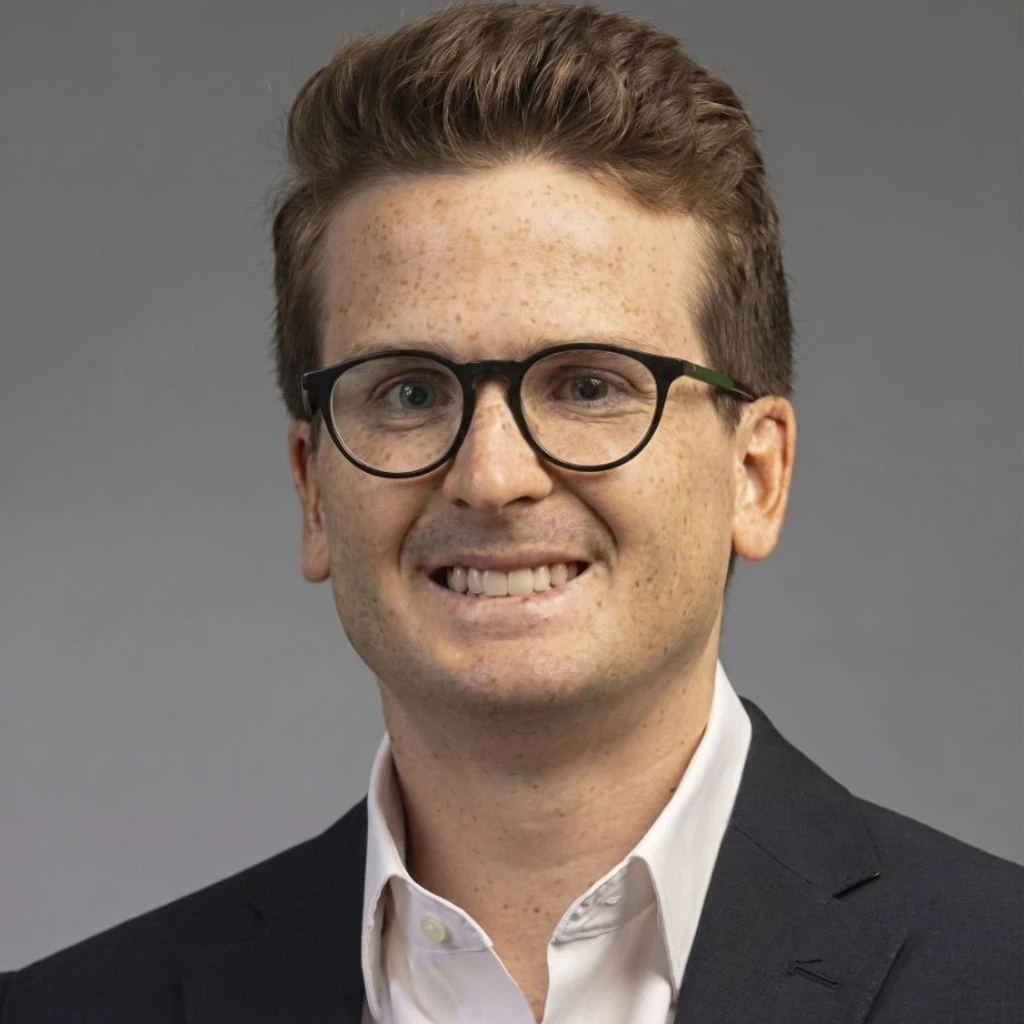
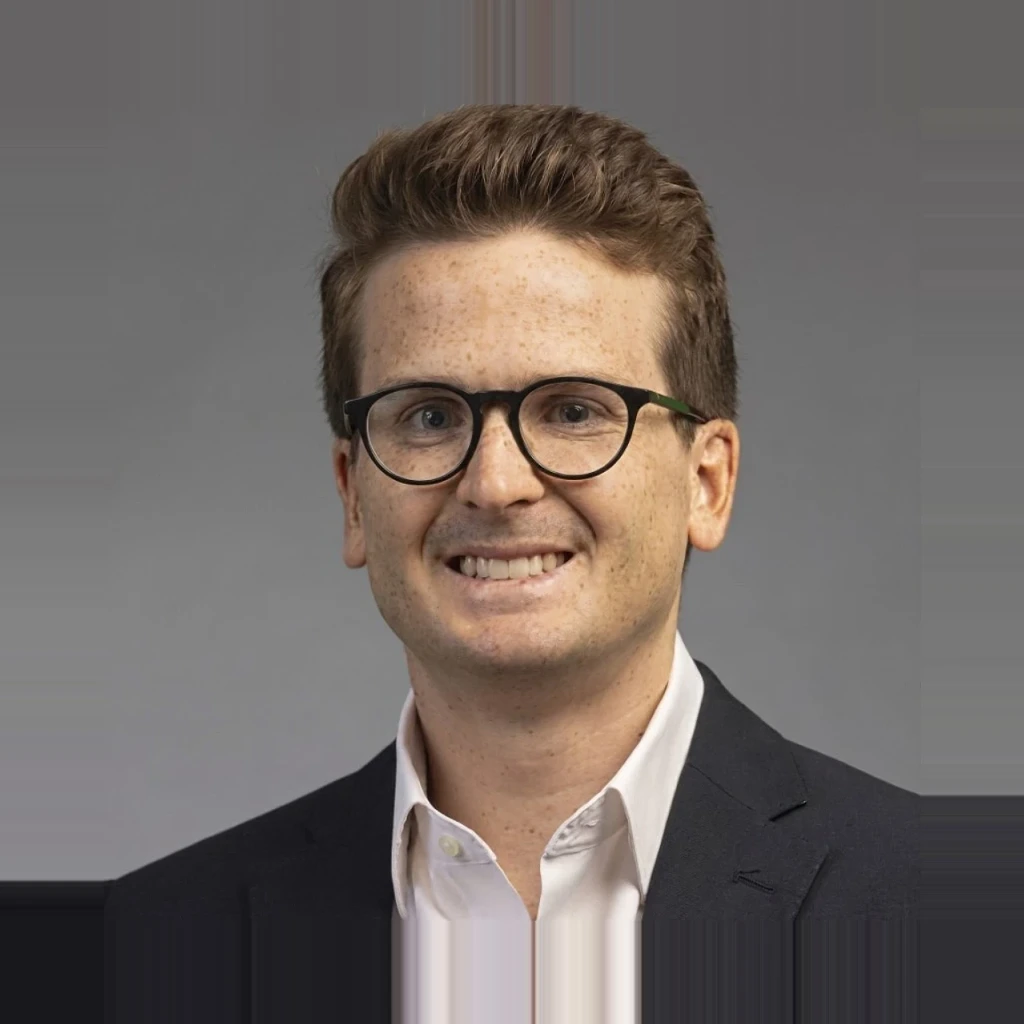
fix: show staff photos in full color; zoom out Kevin Buell headshot 20%
Remove grayscale/hover effect from staff grid — photos now render in
color by default. Zoom out kevin-buell.webp by 20% using edge-copy
padding so full head and shoulders are visible.

diff --git a/src/components/team/staff-grid.tsx b/src/components/team/staff-grid.tsx
@@ -81,7 +81,7 @@ function MemberRow({
             width={1024}
             height={1024}
             sizes="(max-width: 640px) 80px, 96px"
-            className="w-full h-full object-cover grayscale group-hover:grayscale-0 transition-all duration-500"
+            className="w-full h-full object-cover"
             placeholder="blur"
             blurDataURL={BLUR_PLACEHOLDER}
           />